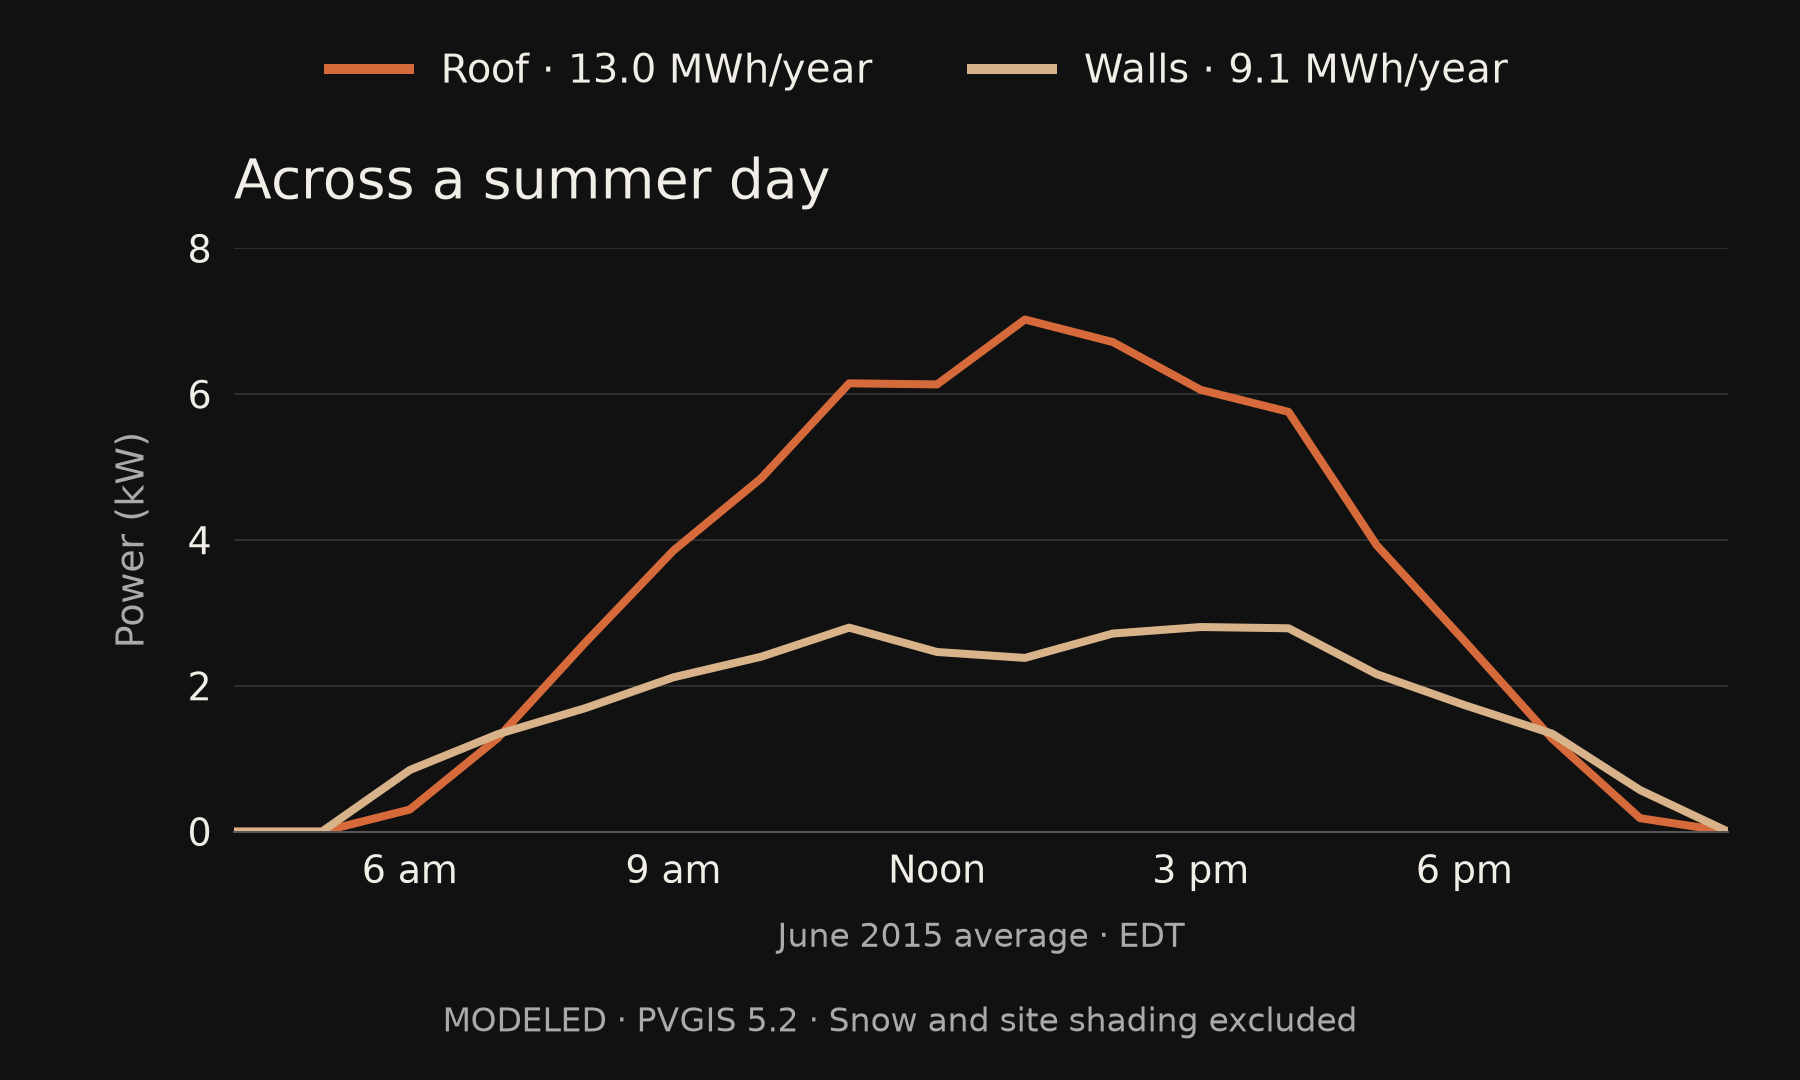
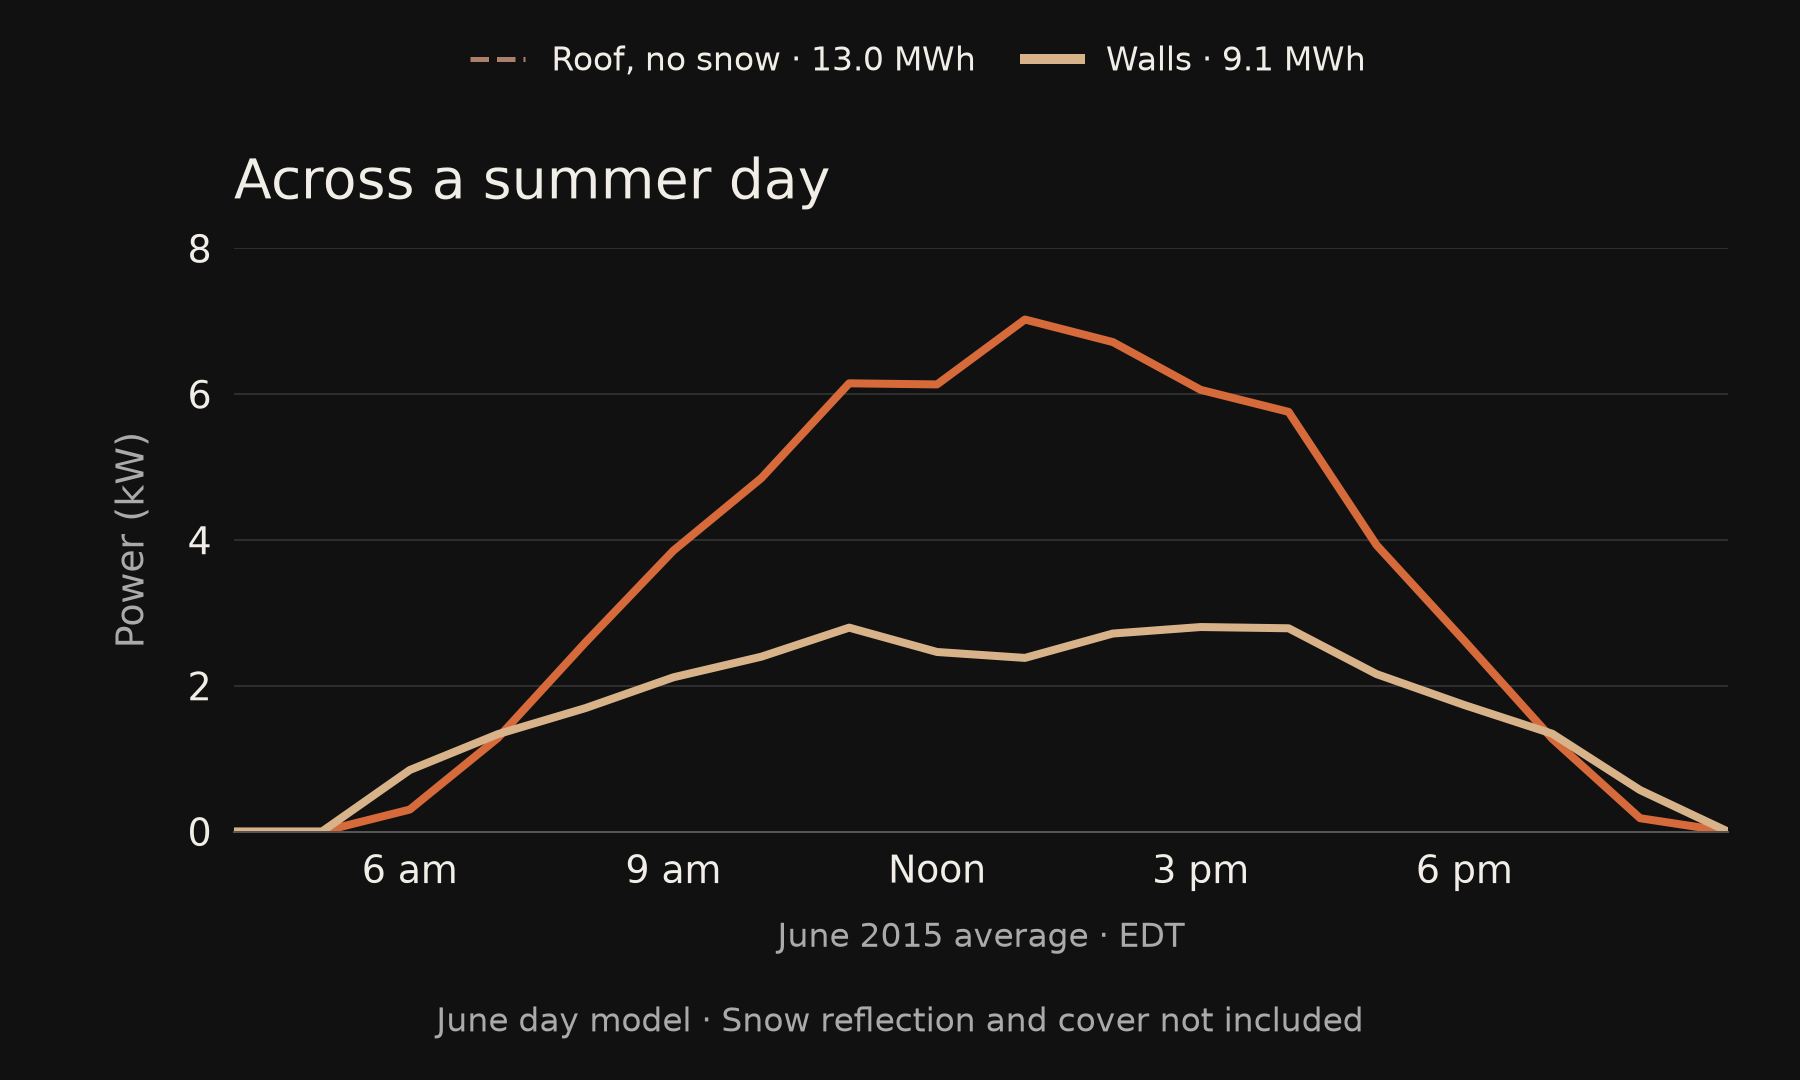
Show snow-adjusted roof and winter wall solar scenario

Changed region(s): [[0.1867, 0.0306, 0.84, 0.0917], [0.2489, 0.9167, 0.7778, 0.9778]]

diff --git a/presentations/scripts/render-solar-comparison.py b/presentations/scripts/render-solar-comparison.py
@@ -17,6 +17,7 @@ BG = "#111111"
 TEXT = "#f1eee7"
 MUTED = "#aaaaaa"
 ROOF = "#d66a3a"
+ROOF_BASE = "#ad806c"
 WALLS = "#d8b38a"
 
 
@@ -33,7 +34,9 @@ def format_axis(ax):
 
 def monthly(ax, model):
     x = list(range(1, 13))
-    for name, color in [("roof", ROOF), ("walls", WALLS)]:
+    baseline = [v / 1000 for v in model["monthly_kwh"]["roof"]]
+    ax.plot(x, baseline, color=ROOF_BASE, lw=2, linestyle="--", alpha=0.9)
+    for name, color in [("roof_jan_mar_zero", ROOF), ("walls", WALLS)]:
         y = [v / 1000 for v in model["monthly_kwh"][name]]
         ax.plot(x, y, color=color, lw=3.2, marker="o", markersize=4)
     ax.set_title("Across the year", loc="left", color=TEXT, fontsize=22, pad=20)
@@ -61,15 +64,20 @@ def daily(ax, model):
     format_axis(ax)
 
 
-def legend(fig, model, size=15):
+def legend(fig, model, size=14, include_scenario=True):
     values = model["annual_kwh"]
+    handles = [Line2D([0], [0], color=ROOF_BASE, lw=2, linestyle="--")]
+    labels = [f"Roof, no snow · {values['roof'] / 1000:.1f} MWh"]
+    if include_scenario:
+        handles.append(Line2D([0], [0], color=ROOF, lw=4))
+        labels.append(f"Roof, Jan–Mar zero · {values['roof_jan_mar_zero'] / 1000:.1f} MWh")
+    handles.append(Line2D([0], [0], color=WALLS, lw=4))
+    labels.append(f"Walls · {values['walls'] / 1000:.1f} MWh")
     fig.legend(
-        [Line2D([0], [0], color=ROOF, lw=4), Line2D([0], [0], color=WALLS, lw=4)],
-        [f"Roof · {values['roof'] / 1000:.1f} MWh/year",
-         f"Walls · {values['walls'] / 1000:.1f} MWh/year"],
-        loc="upper center", bbox_to_anchor=(0.51, 0.985), ncol=2,
+        handles, labels,
+        loc="upper center", bbox_to_anchor=(0.51, 0.985), ncol=len(handles),
         frameon=False, labelcolor=TEXT, fontsize=size,
-        handlelength=2, columnspacing=2.5,
+        handlelength=1.7, columnspacing=1.5,
     )
 
 
@@ -81,7 +89,7 @@ def render(model):
     monthly(axes[0], model)
     daily(axes[1], model)
     legend(fig, model)
-    fig.text(0.5, 0.06, "MODELED · 45°N reference · Snow and site shading excluded",
+    fig.text(0.5, 0.06, "45°N model · Jan–Mar roof zero assumed · Wall snow reflection unquantified",
              ha="center", color=MUTED, fontsize=13)
     for ext in ["png", "svg"]:
         path = OUT / f"solar-comparison.{ext}"
@@ -95,8 +103,13 @@ def render(model):
         fig, ax = plt.subplots(figsize=(10, 6), facecolor=BG)
         fig.subplots_adjust(left=0.13, right=0.96, bottom=0.23, top=0.77)
         function(ax, model)
-        legend(fig, model, size=16)
-        fig.text(0.5, 0.045, "MODELED · PVGIS 5.2 · Snow and site shading excluded",
+        legend(fig, model, size=13, include_scenario=(name == "solar-seasonal"))
+        footnote = (
+            "45°N model · Jan–Mar roof zero assumed"
+            if name == "solar-seasonal"
+            else "June day model · Snow reflection and cover not included"
+        )
+        fig.text(0.5, 0.045, footnote,
                  ha="center", color=MUTED, fontsize=13)
         fig.savefig(OUT / f"{name}.png", dpi=180, facecolor=BG)
         plt.close(fig)

diff --git a/presentations/science on the screen.md b/presentations/science on the screen.md
@@ -203,22 +203,22 @@ Indoor conditions have been very stable: around 55% relative humidity and 70–7
 
 # Solar all year, no repainting
 
-## Less annually. More in midwinter.
+## Winter is when I need the power.
 
-<img class="solar-chart" src="https://raw.githubusercontent.com/dzajic/justhaus-web/codex/science-on-screen-complete/presentations/images/science%20on%20the%20screen/solar-comparison.png" alt="Modeled roof versus wall solar production: nearly flat west-tilted roof 13.0 MWh a year and walls 9.1 MWh; monthly and average June-day curves show lower wall yield and a lower midday peak. Snow and site shading are excluded.">
+<img class="solar-chart" src="https://raw.githubusercontent.com/dzajic/justhaus-web/codex/science-on-screen-complete/presentations/images/science%20on%20the%20screen/solar-comparison.png" alt="Solar comparison at a 45-degree-north reference point. A nearly flat roof makes 13.0 MWh annually without snow; assuming zero roof output in January through March reduces it to 10.8 MWh. Vertical east, south, and west walls make 9.1 MWh annually, with 2.1 MWh in January through March and a broader, lower summer daily peak. Snow reflection on the walls is not quantified.">
 
-*Observed: snow-bright winter sun briefly pushed my walls to 110% of rated power.*
+*Snow reflection boosts output: my walls have reached 110% of rated power.*
 
-*And it’s also my siding.*
+*Also siding: less cladding and painting, with no solar weight or mounts on the roof.*
 
 <!-- NOTES:
 “I’m optimizing when the electricity arrives, as well as how much I get—and the panels are also my siding.”
 Roof: assumed 32 × 415 W panels, 13.28 kW, nearly flat, tilted 2.5° toward west, at the agreed 45°N reference.
 Walls: 11 × 415 W panels per vertical east, south and west wall; 33 panels and 13.695 kW total.
-PVGIS estimates about 13.0 MWh/year for the roof and 9.1 MWh/year for the walls, about 30% less. The plot uses a 45°N reference point, not a site-specific forecast.
+PVGIS estimates about 13.0 MWh/year for the roof without snow losses and 9.1 MWh/year for the walls, about 30% less. If the roof produces nothing January–March because of snow, it falls to 10.8 MWh/year and the gap shrinks to about 16%. The walls make 2.1 MWh in those months. Roof zero is an assumed scenario, not an observed or PVGIS result. The plot uses a 45°N reference point, not a site-specific forecast.
 The daily view averages June 2015 weather; the annual view uses monthly averages for 2005–2015. Both are modeled, not measured.
 Without snow coverage modeled, December–February accounts for 11.0% of roof output and 18.2% of wall output. The walls produce about 1.66 MWh over those three months versus 1.44 MWh for the roof, and exceed roof production in November, December and January. The wall array also has a much lower midday peak.
-“A huge summer surplus isn’t useful to me. On a bright winter occasion, I saw the wall panels briefly reach about 110% of their rated power; reflection from snow appears to have helped. That is an instantaneous power observation, not an annual energy yield. A nearly flat roof could produce little or nothing while it remains snow-covered, potentially for 2–3 months at this site. That duration is a concern, not measured roof production or a result of this model. And the wall panels are also my siding.” Actual household demand, snow coverage, tree shading and export or storage have not been modeled; the curve does not quantify usable energy or snow benefits.
+“A huge summer surplus isn’t useful to me. Snow reflection is real: on a bright winter occasion it boosted the wall panels to about 110% of rated power. That is an instantaneous power observation, not an annual energy yield. The modeled 16% annual gap under a snow-covered roof could narrow further with this winter boost, but I don’t yet have seasonal measurements to say by how much. And the wall panels replace cladding and painting while keeping their weight and mounts off the roof.” Actual household demand, tree shading and export or storage have not been modeled; the curve does not quantify annual energy from snow reflection.
 Producing more energy than the house uses remains a goal until production and consumption can be compared.
 Model source: https://joint-research-centre.ec.europa.eu/photovoltaic-geographical-information-system-pvgis/using-pvgis-5/api-non-interactive-service_en
 Winter context: https://www.energy.gov/cmei/femp/solar-photovoltaic-hardening-resilience-winter-weather

diff --git a/presentations/data/science-on-screen/solar-model.md b/presentations/data/science-on-screen/solar-model.md
@@ -24,18 +24,21 @@ Saved PVcalc response metadata, inputs, monthly outputs and the hourly request U
 ## Results and interpretation
 
 - Roof: 13,038.72 kWh/year, about 13.0 MWh.
+- Snow-covered roof scenario: set January–March roof output to zero, removing 2,240.30 kWh and leaving 10,798.43 kWh/year, about 10.8 MWh. This is an explicit assumption, not a PVGIS snow estimate or measured roof production.
 - Walls combined: 9,107.82 kWh/year, about 9.1 MWh, 30.1% less than the roof reference.
+- Under the January–March zero-roof assumption, the walls produce 15.7% less energy over the year. The wall model produces 2,106.84 kWh in January–March, when the assumed roof produces zero.
 - South wall: 3,717.12 kWh/year; east: 2,719.81; west: 2,670.89.
 - Winter (December–February) share of annual output: roof 11.0%; walls 18.2%. December–February totals are 1,438.61 kWh for the roof and 1,661.46 kWh for the walls. Walls produce more in November, December and January, even without modeled snow losses.
 - East/west panels redistribute output through the day; the combined wall array has a much lower midday peak in the June average.
-- Daniel reports that the wall panels briefly reached about 110% of rated power during a bright, snowy winter period. That is an observed peak, separate from this model and from seasonal energy yield. Snow reflection and cold operating temperatures could contribute; no attribution has been quantified. He expects that prolonged snow cover could leave the nearly flat roof producing little or nothing for as long as 2–3 months, but roof snow duration and output have not been measured or modeled here.
+- Daniel reports that snow reflection boosts the wall array; during a bright, snowy winter period it briefly reached about 110% of rated power. That is an observed peak, separate from this model and from seasonal energy yield. The seasonal energy boost has not been quantified. The zero-roof scenario represents his concern that prolonged snow cover could stop production for roughly three months.
+- The wall panels also replace some exterior cladding and its painting or maintenance. Placing them on the walls avoids putting this array's weight and mounts on the roof. Those material and construction benefits are not included in the energy comparison.
 - These figures do not establish usable energy or summer surplus; those depend on household consumption, storage and export arrangements. Daniel's stated goal is to avoid concentrating more production in summer than he can use.
 
 [DOE discussion of vertical PV and winter weather](https://www.energy.gov/cmei/femp/solar-photovoltaic-hardening-resilience-winter-weather) supports the separate discussion of low-angle winter sun and snow shedding. Actual snow losses have not been assigned numerical values here.
 
 ## Files and regeneration
 
-- `solar-monthly.csv`: monthly energy, roof and each wall plus the wall total, in kWh.
+- `solar-monthly.csv`: monthly energy, roof baseline and snow scenario, each wall and the wall total, in kWh.
 - `solar-daily-june.csv`: average June 2015 hourly power in kW, local summer clock time.
 - `solar-model.json`: model metadata and saved source results.
 - `../../scripts/render-solar-comparison.py`: optional chart-generation script; requires Matplotlib. It does not add runtime dependencies to the website.
